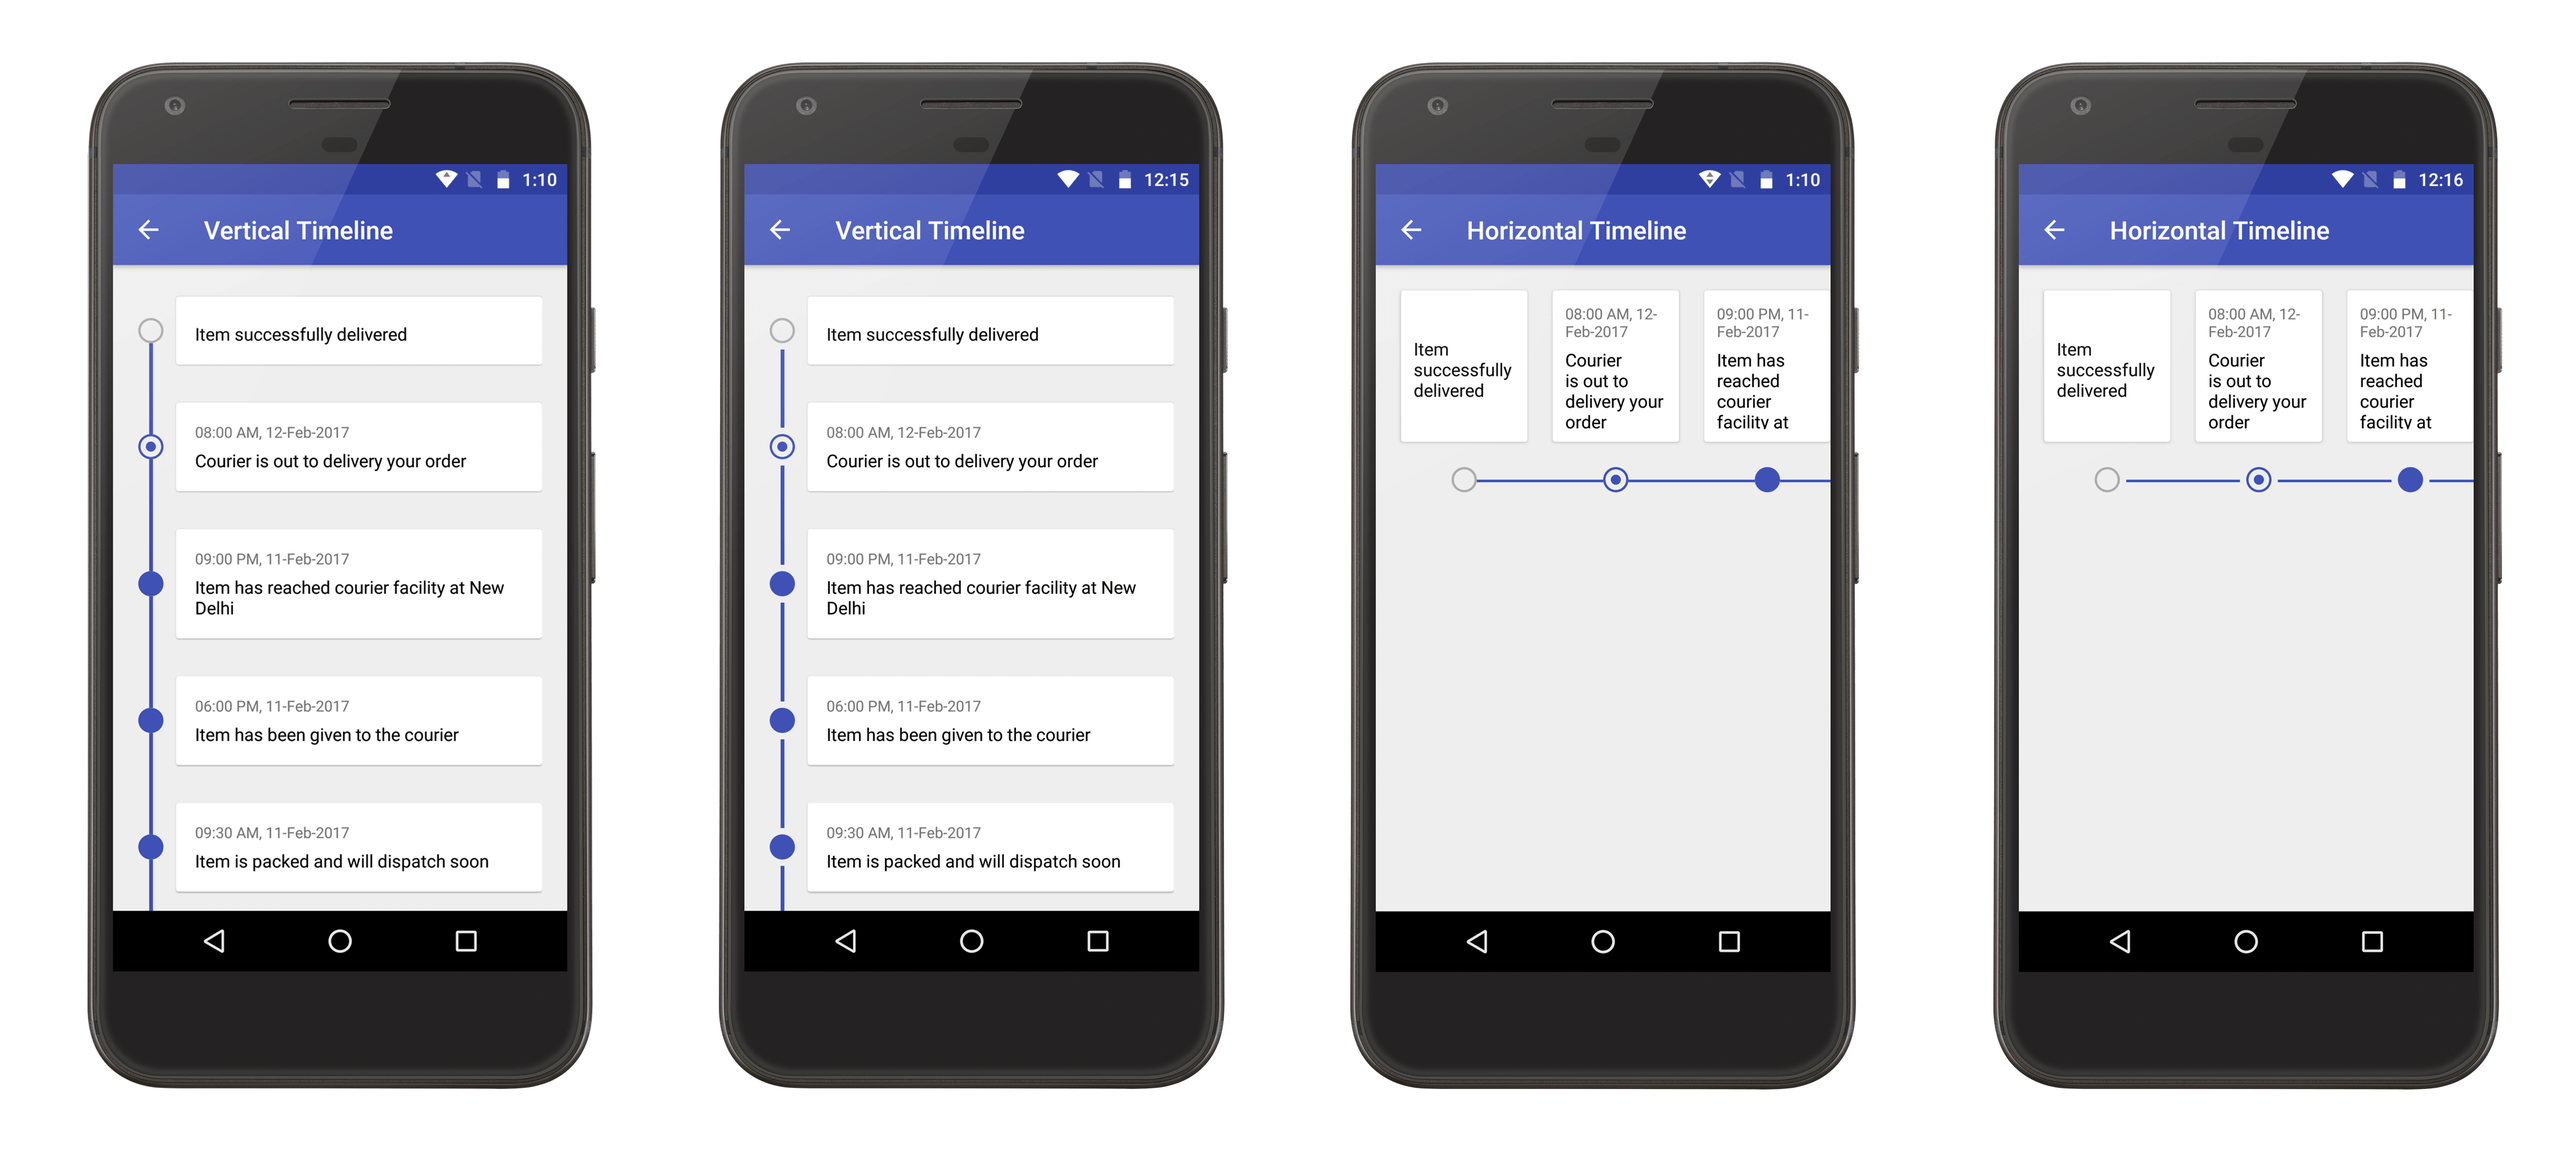
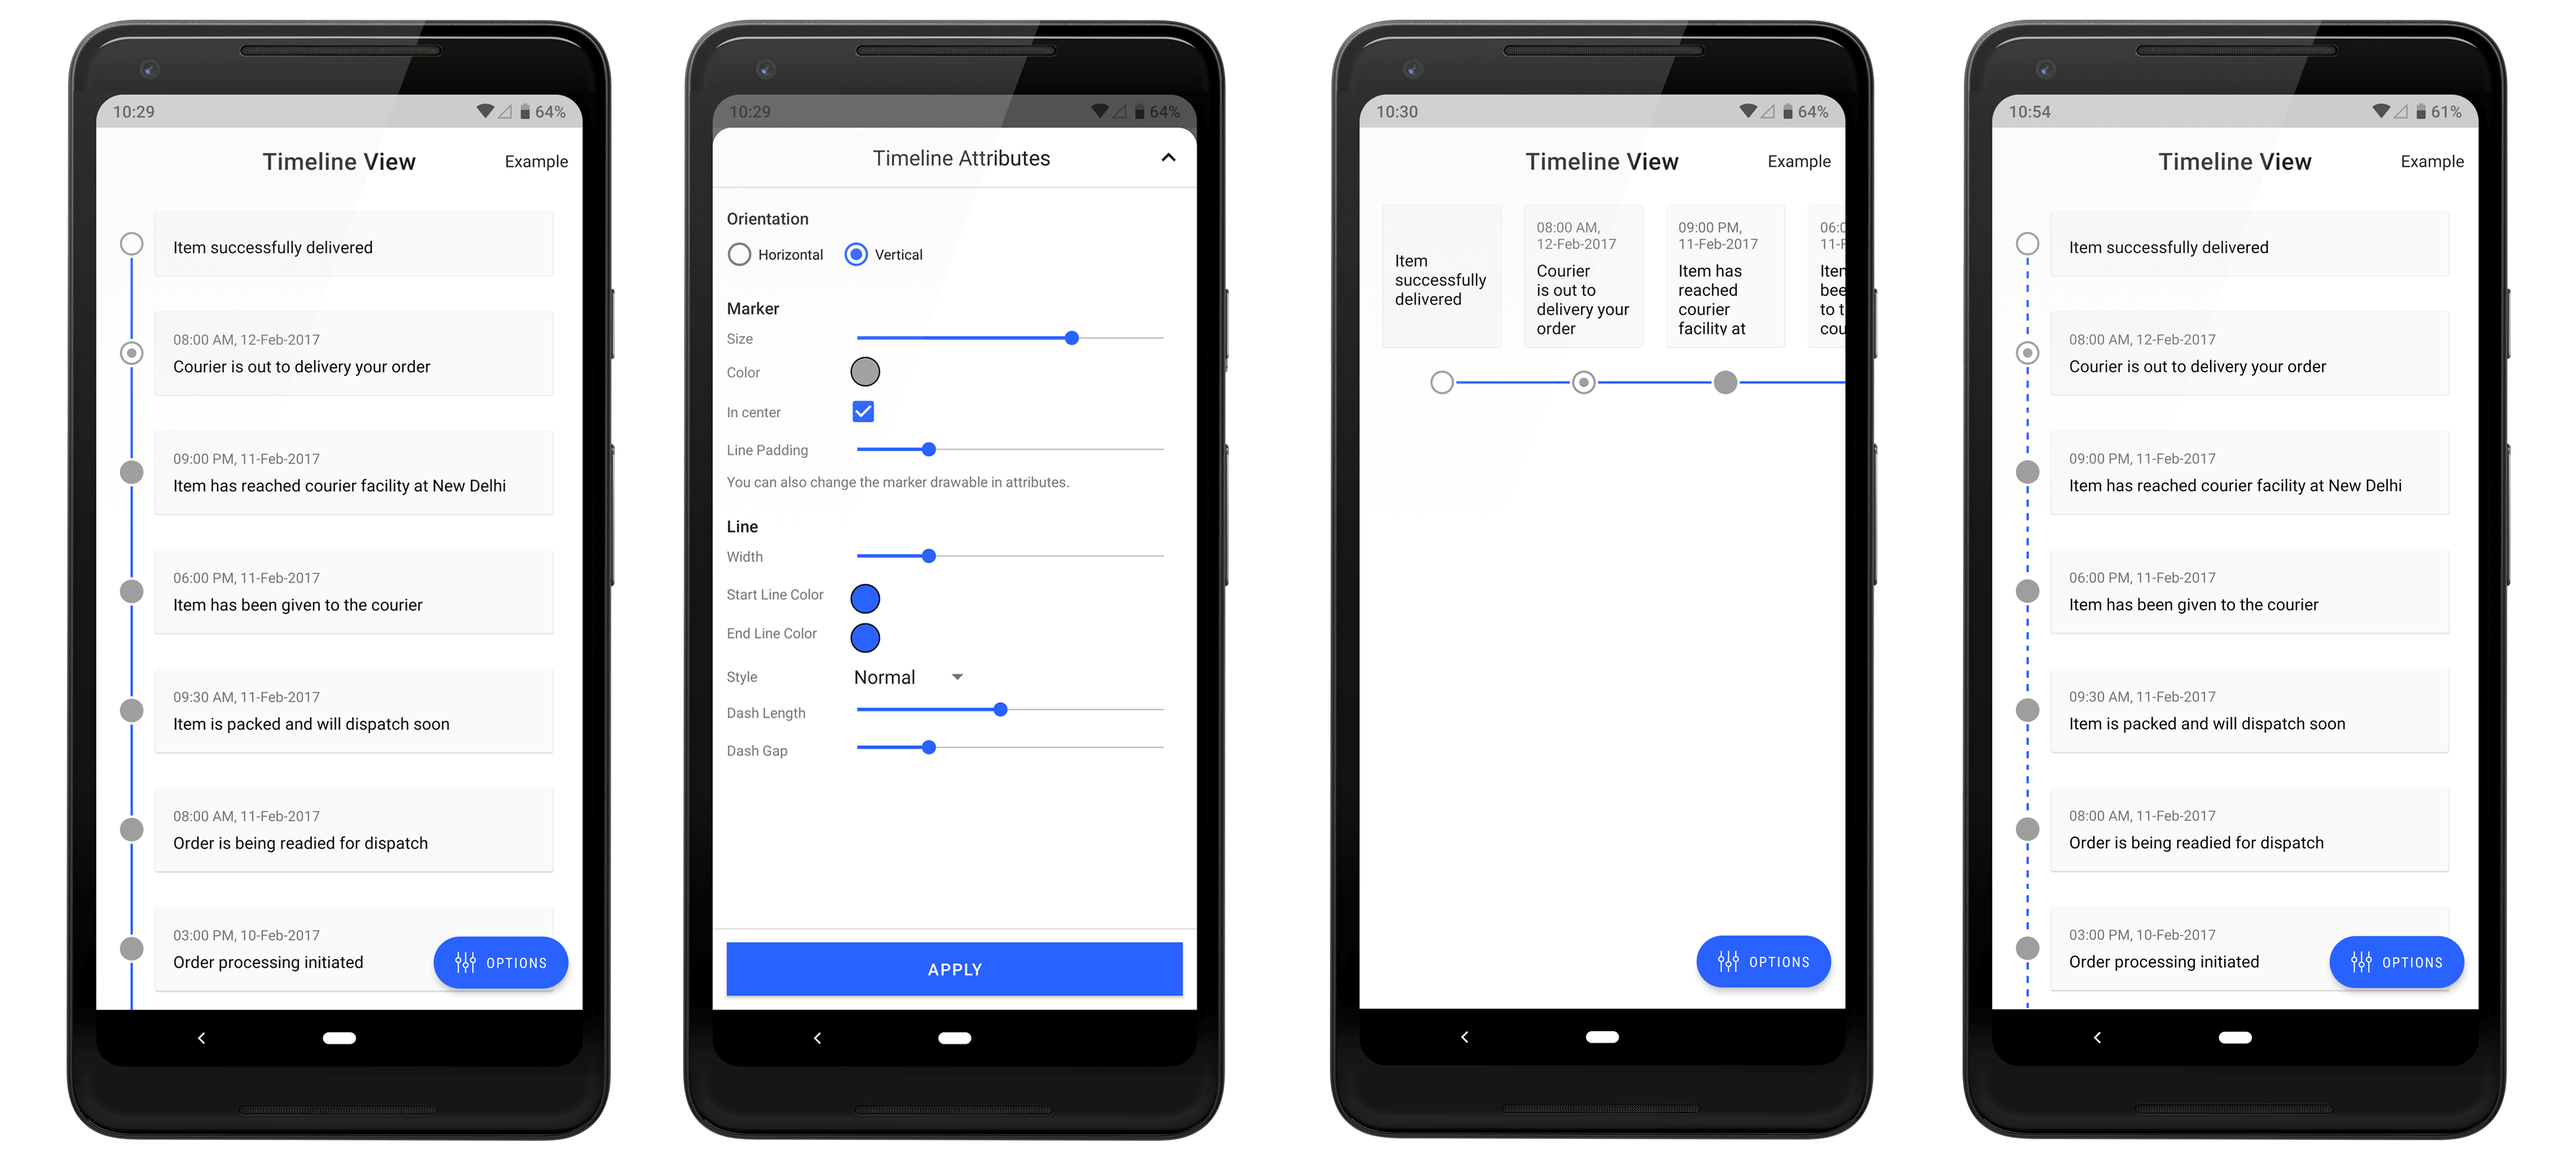
UPDATE: readme, library v1.1.0

diff --git a/README.md b/README.md
@@ -14,9 +14,7 @@ Android Timeline View Library (Using RecyclerView) is simple implementation used
 
 ## Sample Project
 
-You can download the latest sample APK from this repo here: [https://github.com/vipulasri/Timeline-View/tree/master/apk](https://github.com/vipulasri/Timeline-View/tree/master/apk)
-
-For information : checkout [Sample App Code](https://github.com/vipulasri/Timeline-View/tree/master/app) in repository.
+For information : checkout [Example Screen Code](https://github.com/vipulasri/Timeline-View/tree/master/app/src/main/java/com/github/vipulasri/timelineview/sample/example) in repository.
 
 ### Download
 
@@ -30,7 +28,7 @@ For information : checkout [Sample App Code](https://github.com/vipulasri/Timeli
 
 ``` gradle
 dependencies {
-    compile 'com.github.vipulasri:timelineview:1.0.6'
+    implementation 'com.github.vipulasri:timelineview:1.1.0'
 }
 ```
 
@@ -40,26 +38,14 @@ dependencies {
 <dependency>
     <groupId>com.github.vipulasri</groupId>
     <artifactId>timelineview</artifactId>
-    <version>1.0.6</version>
+    <version>1.1.0</version>
     <type>pom</type>
 </dependency>
 ```
 
-
-#### Manual:
-**Manual - Using [Android Studio](https://developer.android.com/sdk/installing/studio.html):**
- * Download the library folder and import to your root application folder.
-You can manually achieve this step with 3 steps:
-    1. Paste the folder library into your application at the same level of your app, build and gradle folder
-    2. Add to your settings.gradle file the following code line:
-    "include ':app', ':timelineview'"
-    3. Rebuild the project
- * File → Project Structure → in Modules section click on "app" → Click on tab "Dependecies" → Click on the green plus → Module Dependecy → Select ":library"
- * Done
-
 ### What's New
 
-See the project's Releases page for a list of versions with their changelogs.
+See the project's Releases page for a list of versions with their change logs.
 
 ### [View Releases](https://github.com/vipulasri/Timeline-View/releases)
 
@@ -70,24 +56,26 @@ If you Watch this repository, GitHub will send you an email every time I publish
 
 ``` java
 <com.github.vipulasri.timelineview.TimelineView
-    android:id="@+id/time_marker"
+    android:id="@+id/timeline"
     android:layout_width="wrap_content"
     android:layout_height="match_parent"
     app:markerSize="20dp"
     app:lineSize="2dp"
-    app:line="@color/colorPrimary"/>
+    app:startLineColor="@color/colorPrimary"
+    app:endLineColor="@color/colorPrimary"/>
 ```
 
 ##### Line Padding around marker
 
 ``` java
 <com.github.vipulasri.timelineview.TimelineView
-    android:id="@+id/time_marker"
+    android:id="@+id/timeline"
     android:layout_width="wrap_content"
     android:layout_height="match_parent"
     app:markerSize="20dp"
-    app:lineSize="2dp"
-    app:line="@color/colorPrimary"
+    app:lineWidth="2dp"
+    app:startLineColor="@color/colorPrimary"
+    app:endLineColor="@color/colorPrimary"
     app:linePadding="5dp"/>
 ```
 
@@ -113,12 +101,17 @@ If you Watch this repository, GitHub will send you an email every time I publish
         <td>sets the marker in center of line if `true`</td>
     </tr>
     <tr>
-        <td>app:line="@color/primarColor"</td>
+        <td>app:startLineColor="@color/primarColor"</td>
         <td>Dark Grey Line</td>
-        <td>sets line color</td>
+        <td>sets start line color</td>
     </tr>
-     <tr>
-        <td>app:lineSize="2dp"</td>
+    <tr>
+        <td>app:endLineColor="@color/primarColor"</td>
+        <td>Dark Grey Line</td>
+        <td>sets end line color</td>
+    </tr>
+    <tr>
+        <td>app:lineWidth="2dp"</td>
         <td>2dp</td>
         <td>sets line width</td>
     </tr>
@@ -131,11 +124,26 @@ If you Watch this repository, GitHub will send you an email every time I publish
         <td>app:linePadding="5dp"</td>
         <td>0dp</td>
         <td>sets line padding around marker</td>
-        </tr>
+     </tr>
+     <tr>
+         <td>app:lineStyle="dash"</td>
+         <td>normal</td>
+         <td>sets line style ie `normal` or `dashed`</td>
+     </tr>
+     <tr>
+         <td>app:lineStyleDashGap="4dp"</td>
+         <td>4dp</td>
+         <td>sets line dash gap</td>
+     </tr>
+     <tr>
+         <td>app:lineStyleDashLength="8dp"</td>
+         <td>8dp</td>
+         <td>sets line dash length</td>
+     </tr>
     </table>
  
 * RecyclerView Holder : 
-   Your `RecyclerViewHolder` should have an extra paramenter in constructor i.e viewType from `onCreateViewHolder`. You would also have to call the method `initLine(viewType)` in constructor definition.
+   Your `RecyclerViewHolder` should have an extra parameter in constructor i.e viewType from `onCreateViewHolder`. You would also have to call the method `initLine(viewType)` in constructor definition.
  
 ``` java
 
@@ -144,7 +152,7 @@ If you Watch this repository, GitHub will send you an email every time I publish
 
         public TimeLineViewHolder(View itemView, int viewType) {
             super(itemView);
-            mTimelineView = (TimelineView) itemView.findViewById(R.id.time_marker);
+            mTimelineView = (TimelineView) itemView.findViewById(R.id.timeline);
             mTimelineView.initLine(viewType);
         }
     }
@@ -158,7 +166,7 @@ If you Watch this repository, GitHub will send you an email every time I publish
 
     @Override
     public int getItemViewType(int position) {
-        return TimelineView.getTimeLineViewType(position,getItemCount());
+        return TimelineView.getTimeLineViewType(position, getItemCount());
     }
 
 ```
@@ -184,7 +192,7 @@ Please let me know via [email](mailto:vipulasri.2007@gmail.com), [pull requests]
 ## License
 
 
-    Copyright 2017 Vipul Asri
+    Copyright 2018 Vipul Asri
 
     Licensed under the Apache License, Version 2.0 (the "License");
     you may not use this file except in compliance with the License.
